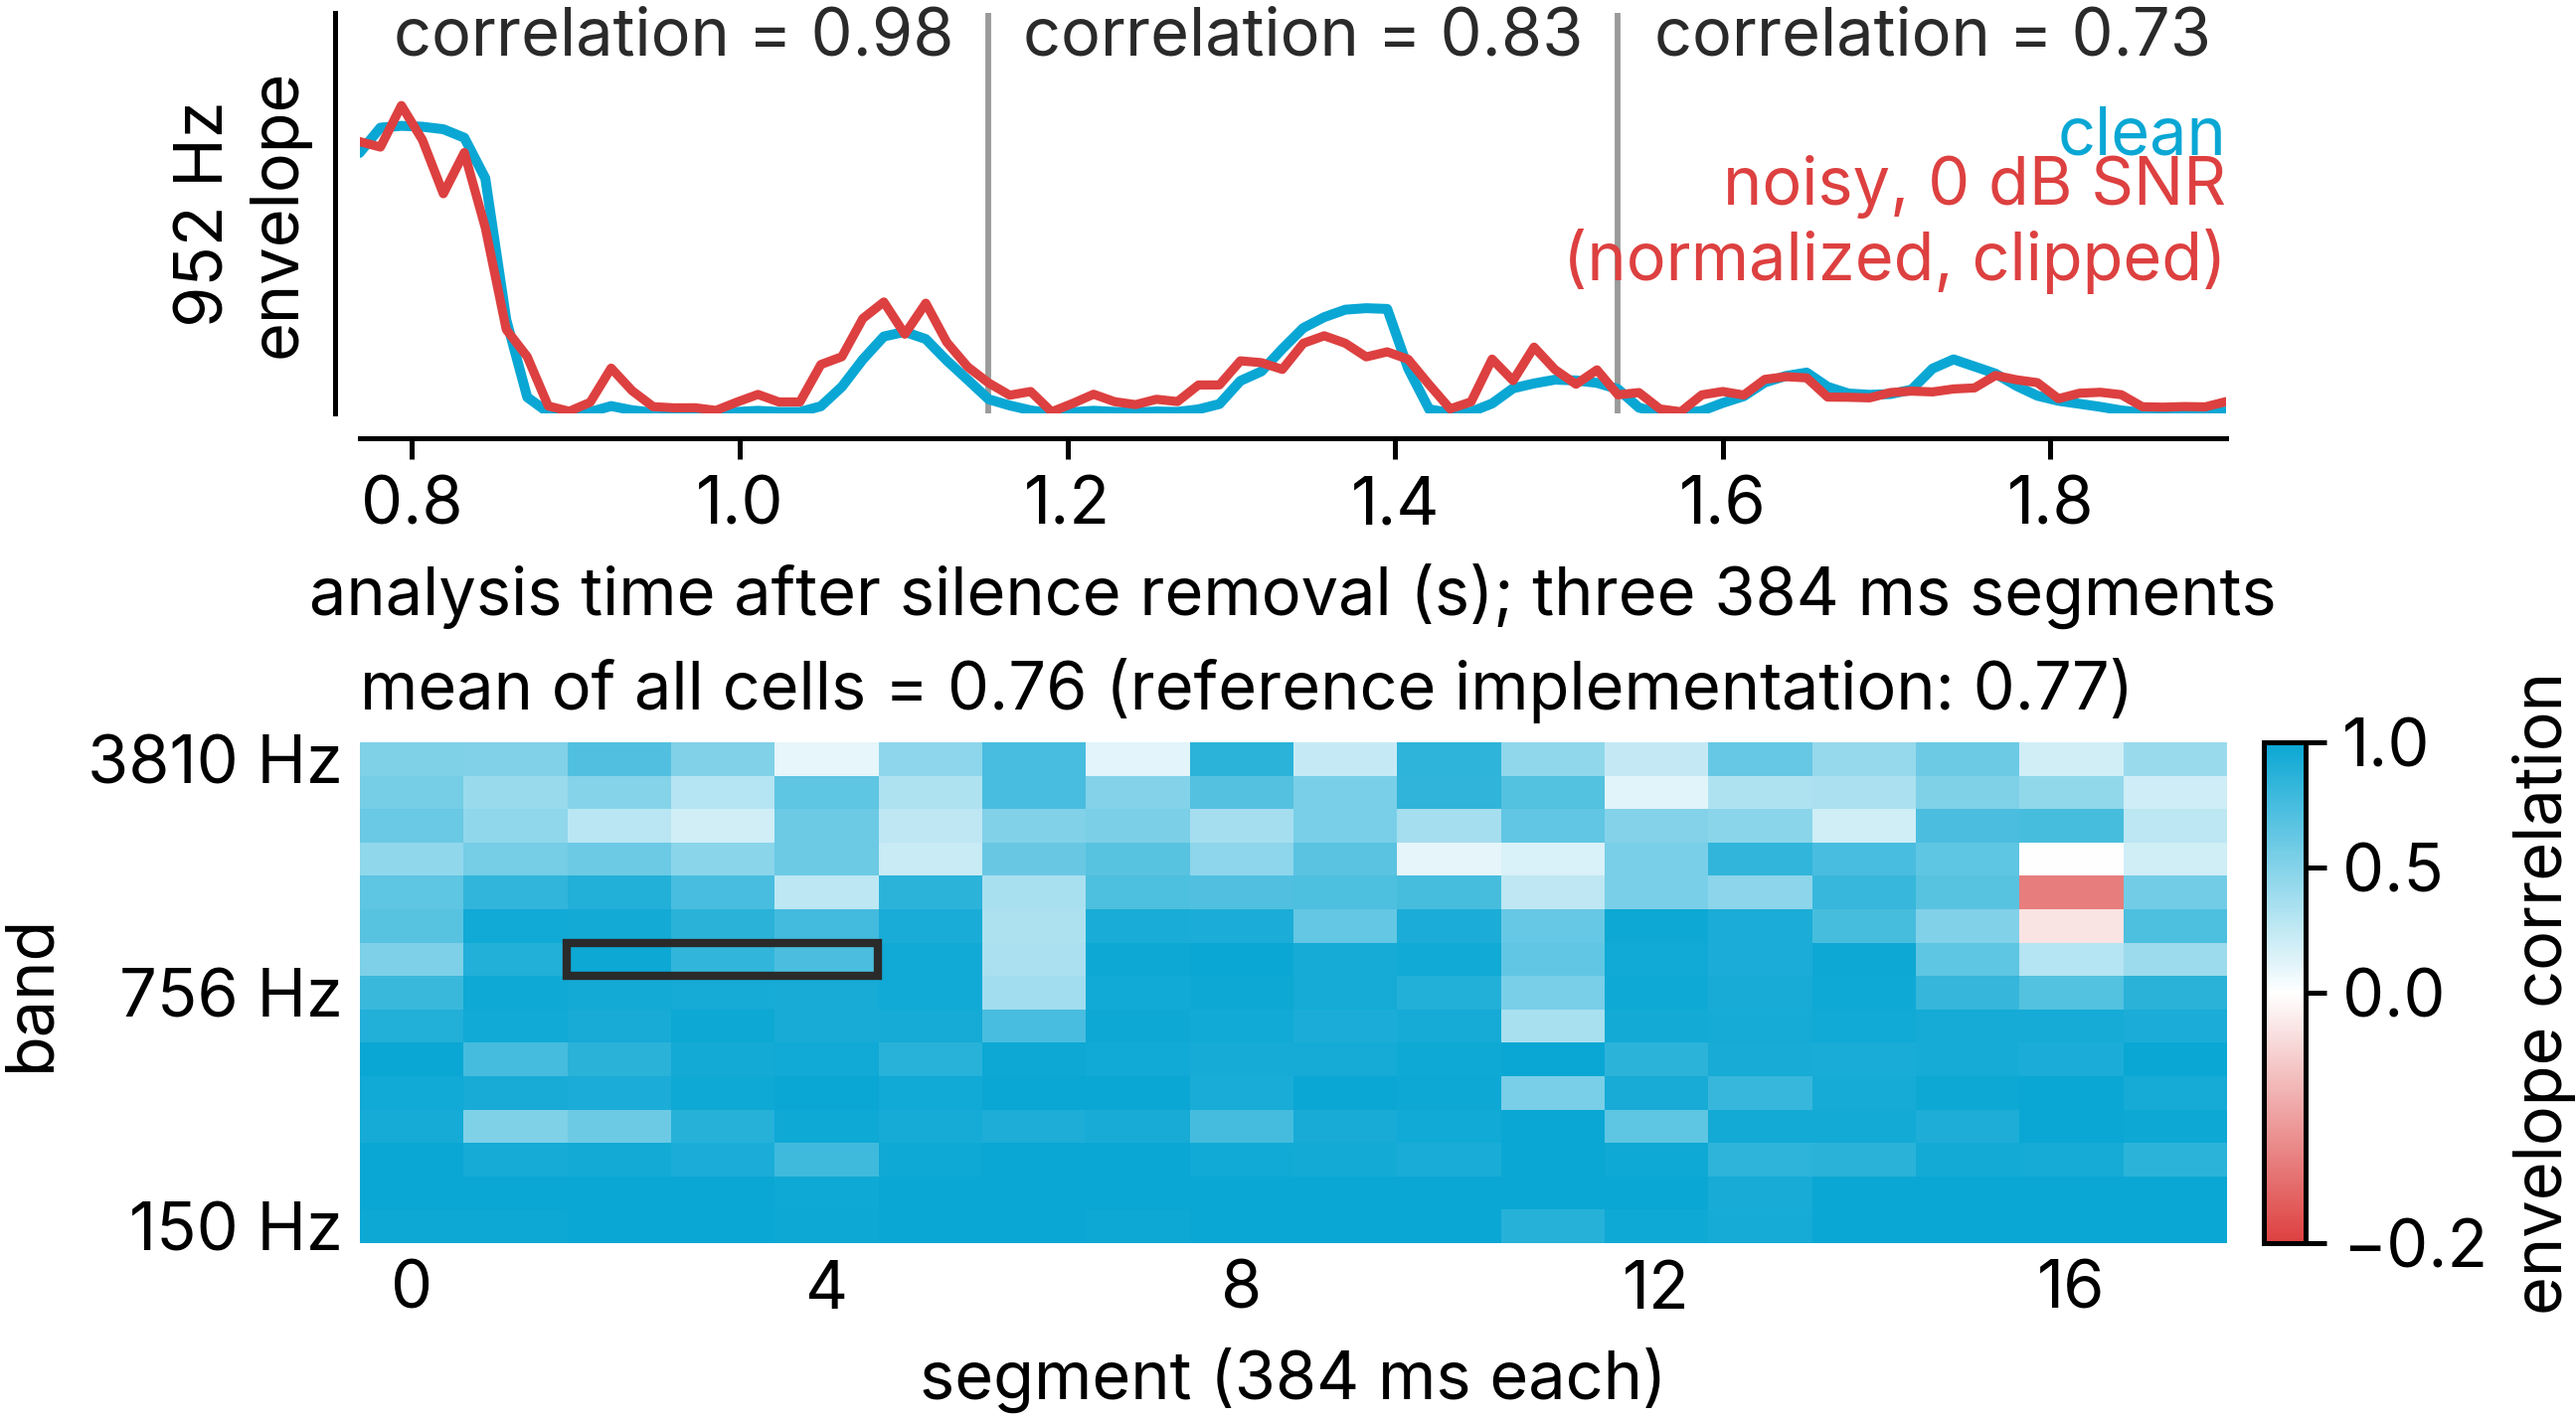
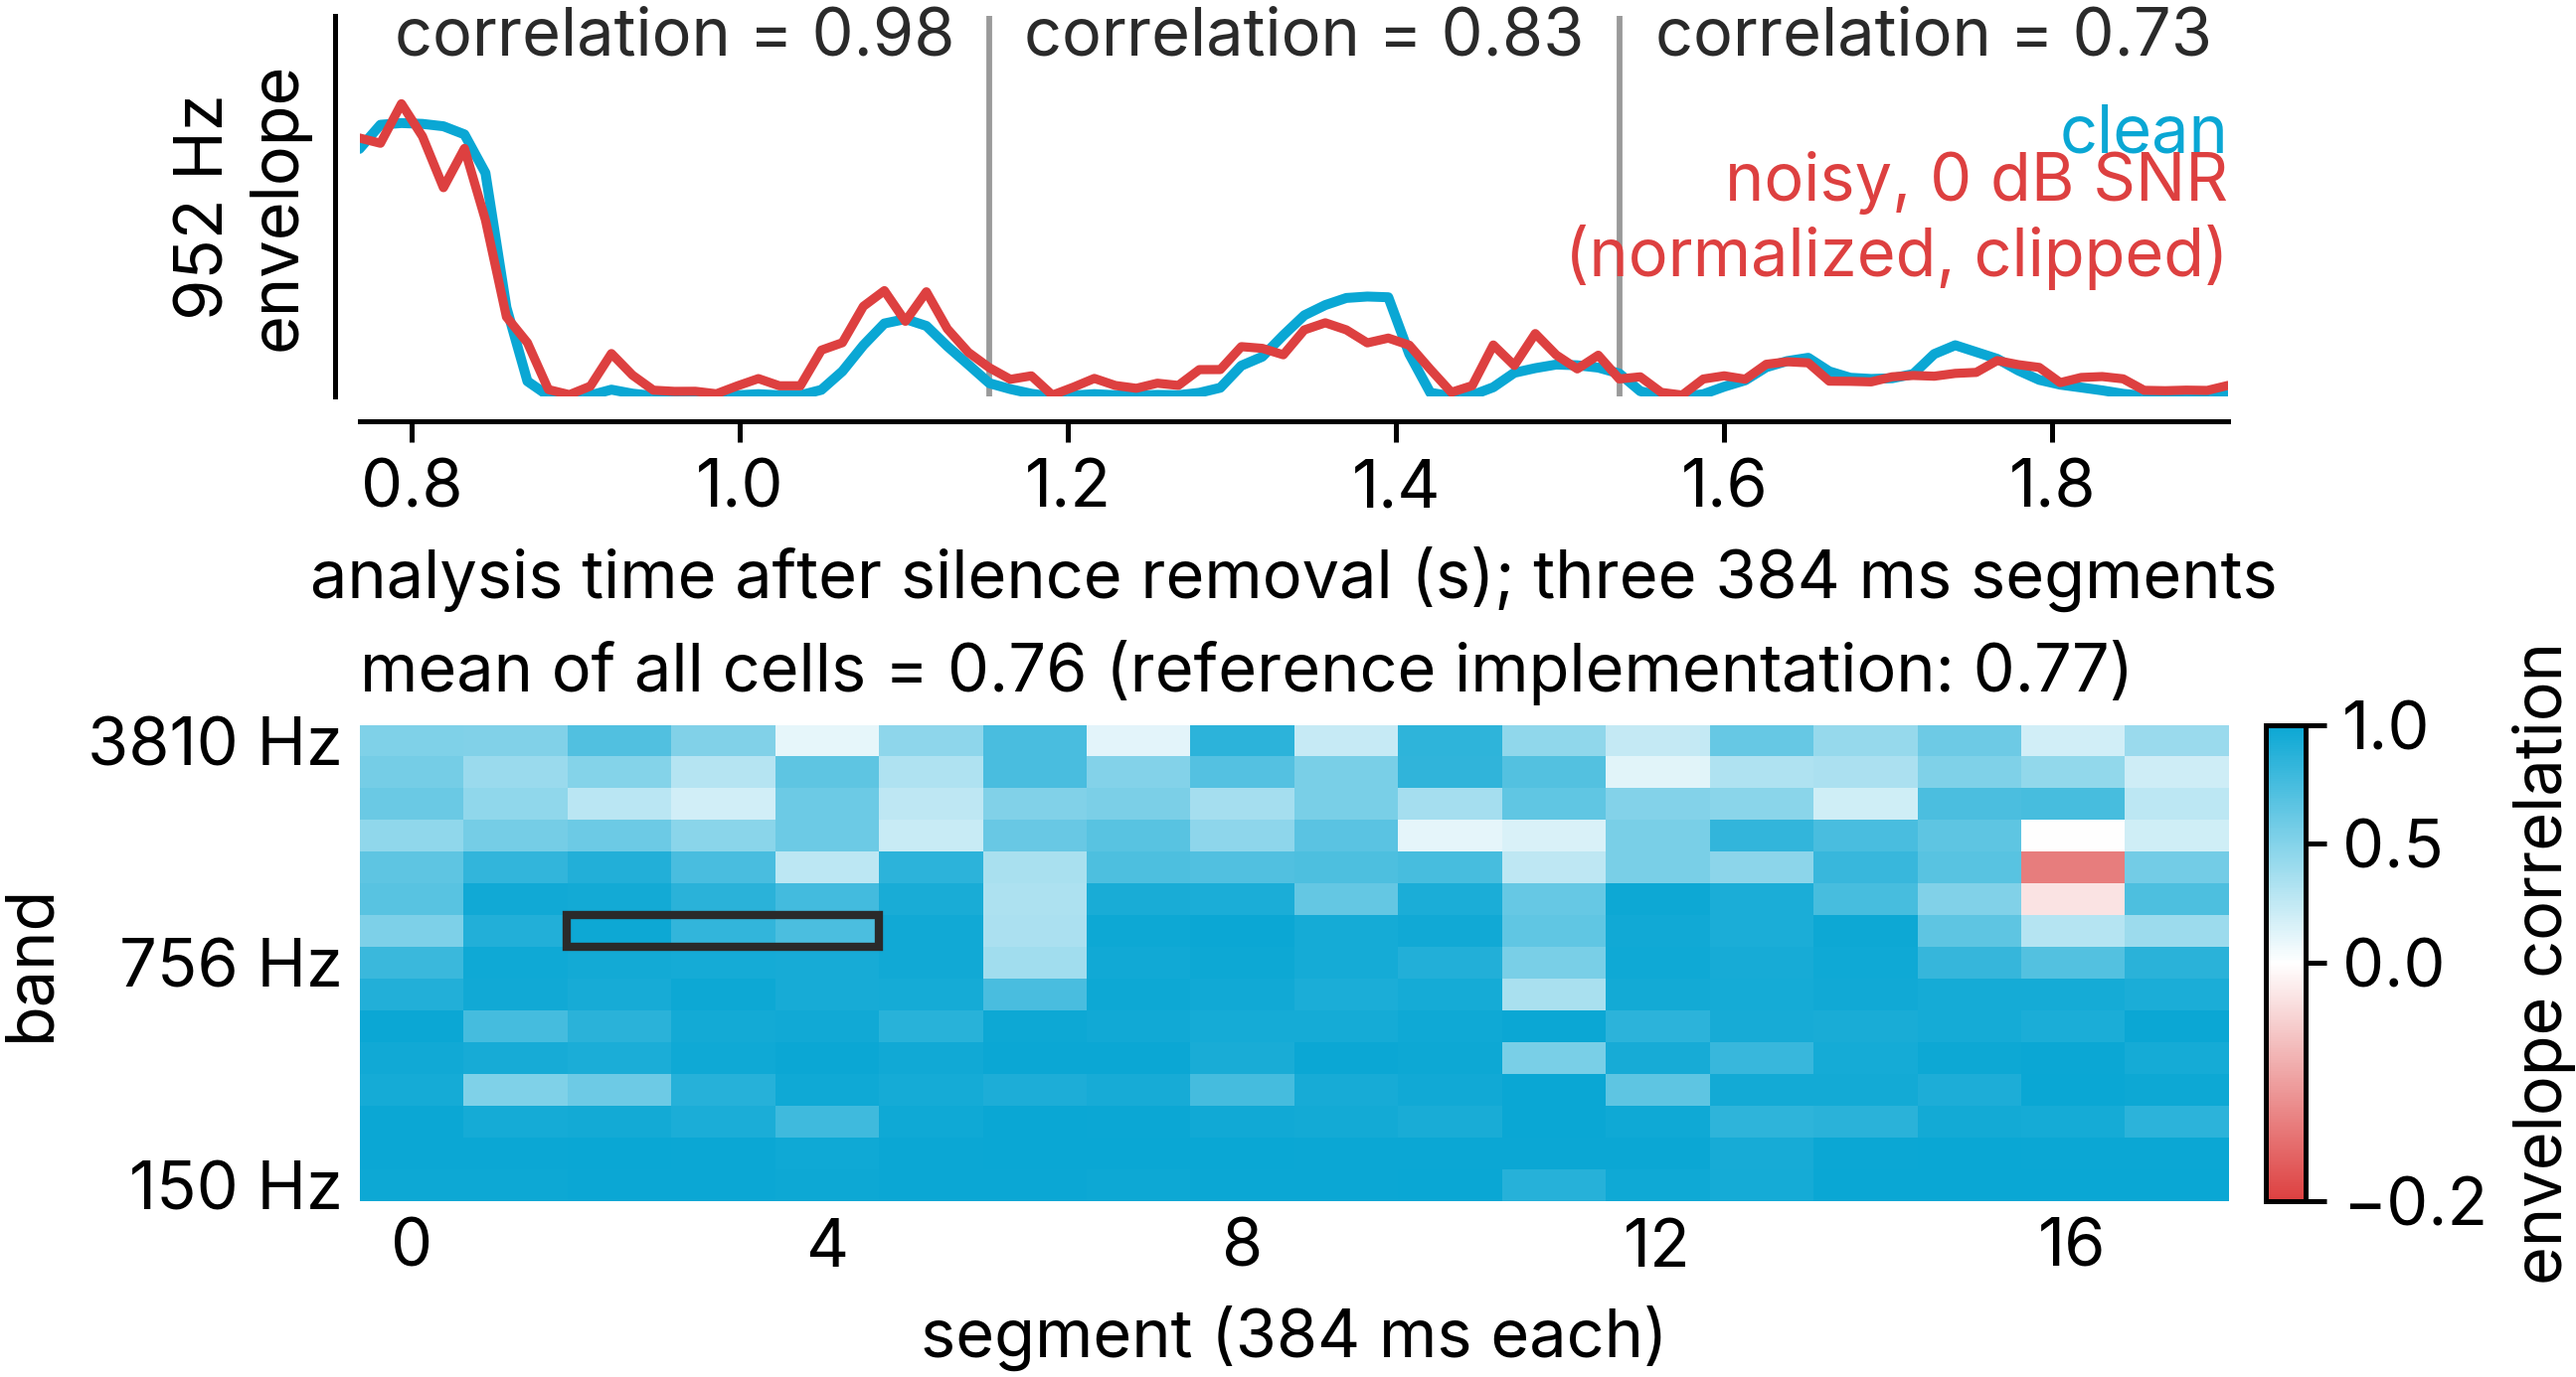
Trim STOI figure to keep its spread on two pages

diff --git a/notebooks/genai_figures.py b/notebooks/genai_figures.py
@@ -536,7 +536,7 @@ def stoi():
     d, Xb, Yn, cf, frame_s = stoi_blocks(clean, noisy, 16000)
     band = int(np.argmin(np.abs(cf - 1000)))
     s0, n_show, L = 2, 3, 30
-    fig, (axT, axB) = book_figure(1.0, 2.4, 2, 1, gridspec_kw={'height_ratios': [1, 1.25]})
+    fig, (axT, axB) = book_figure(1.0, 2.33, 2, 1, gridspec_kw={'height_ratios': [1, 1.25]})
     sl = slice(s0 * L, (s0 + n_show) * L)
     tt = np.arange(sl.start, sl.stop) * frame_s
     axT.plot(tt, Xb[band, sl], color=NML_CYAN, lw=LW - 0.2)
